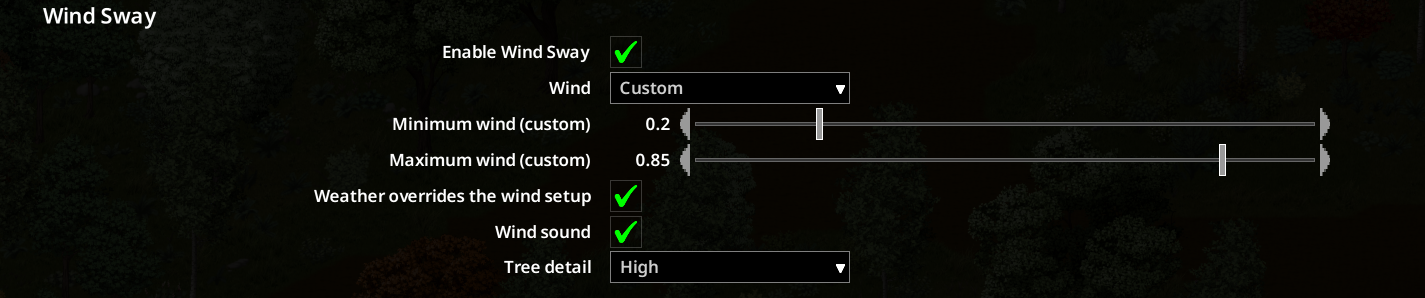
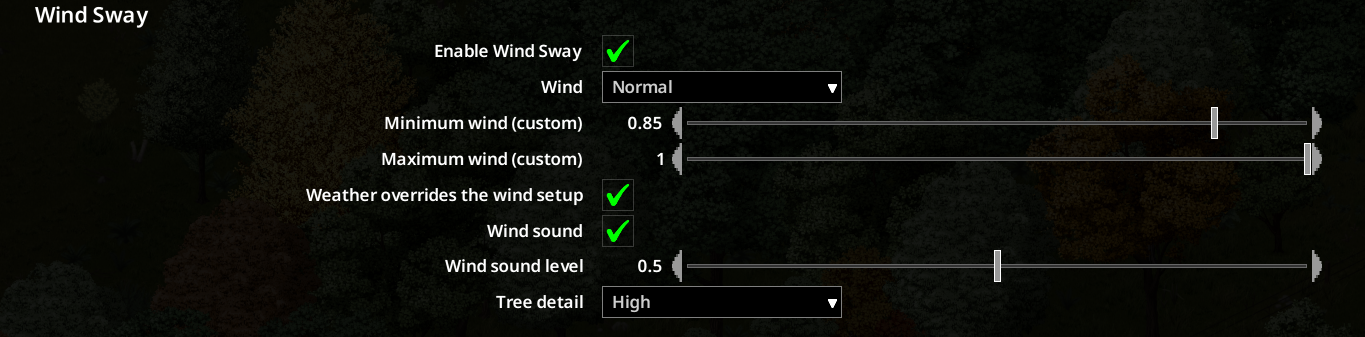
Ride the wind sound on the gusts at the player, add a wind sound level option at half by default, integrate the plants' per-object clock, list multiplayer as tested, release 0.5.0

Changed region(s): [[0.2154, 0.1208, 0.9846, 0.9664], [0.0, 0.0, 0.1231, 0.0906]]

diff --git a/src/pzmod/windsway/TreeSway.java b/src/pzmod/windsway/TreeSway.java
@@ -5,6 +5,7 @@ import java.util.IdentityHashMap;
 import me.zed_0xff.zombie_buddy.Accessor;
 
 import zombie.GameTime;
+import zombie.characters.IsoPlayer;
 import zombie.iso.objects.ObjectRenderEffects;
 
 // Tree wind and sway, stateless: every value comes from (clocks, position).
@@ -162,6 +163,12 @@ public final class TreeSway {
     public static volatile double breezePeriod = 240.0;
     public static volatile double breezePeriodFine = 60.0;
     public static volatile double breezeFineWeight = 0.3;
+    // The wind sound swings around the wind with the gust field at the
+    // player: down * w in a lull, up * w in a gust, capped at 1. The wind
+    // bed is a step ladder without crossfades (0.4/0.7/0.9), a gust is
+    // heard when it crosses a step; the plateau at the cap is the top step.
+    public static volatile double soundGustDown = 0.3;
+    public static volatile double soundGustUp = 0.3;
     // Weather takes the wind over: the band fades out while a weather
     // period, precipitation or fog runs, back in when the sky clears.
     public static volatile boolean weatherTakeover = true;
@@ -271,6 +278,10 @@ public final class TreeSway {
     // phase run.
     public static volatile double coniferLeafClock = 0.0;
     public static volatile double maskClock = 0.0;
+    // The plants' per-object octave rate grows with the wind, so it
+    // integrates too: the shader's rate times treeTime turned every wind
+    // drift into a phase run that grew with the session.
+    public static volatile double plantLocalClock = 0.0;
     public static volatile double w = 0.0;
     public static volatile double wPlant = 0.0;
     public static volatile double plantGateStart = 0.8;
@@ -317,6 +328,7 @@ public final class TreeSway {
         leafClock = 0.0;
         coniferLeafClock = 0.0;
         maskClock = 0.0;
+        plantLocalClock = 0.0;
         breezeClock = Math.random() * 1.0e7;
     }
 
@@ -429,6 +441,7 @@ public final class TreeSway {
                     wp = plantGateStart + (wp - plantGateStart) * plantGateSlope;
                 }
                 wPlant = wp;
+                plantLocalClock = wrap(plantLocalClock + plantLocalRate * (1.0 + plantLocalRateStorm * wp) * dtReal);
                 double tw = (wind - 0.1) / 0.9;
                 if (tw < 0.0) tw = 0.0;
                 double dtSway = dt * (swayTempoCalm + (swayTempoStorm - swayTempoCalm) * tw);
@@ -441,6 +454,7 @@ public final class TreeSway {
                 double ringSpeed = 1.0 - stormSpeedup * wind;
                 ringClock += dtReal / (ringSpeed < 0.05 ? 0.05 : ringSpeed);
                 advect += (dir < 0.0 ? -1.0 : 1.0) * (frontSpeed + frontSpeedWind * wind) * dtReal;
+                WindSwayMod.gustSound = gustAtPlayer();
                 double sp = (frontSpeed + frontSpeedWind * wp) * (1.0 + plantFrontCalm * (1.0 - wp) + plantFrontStorm * wp);
                 speedPlant = sp;
                 advectPlant += (dir < 0.0 ? -1.0 : 1.0) * sp * dtReal;
@@ -477,6 +491,7 @@ public final class TreeSway {
             // floor on the tree pools as well, treeWindFloor is out).
             WindSwayMod.breezeTree = -1.0;
             WindSwayMod.breezePlant = -1.0;
+            WindSwayMod.gustSound = -1.0;
             TreeRenderer.disable("wind model disabled");
             WindSwayGrassDrawer.fail("wind model disabled");
             return false;
@@ -545,7 +560,7 @@ public final class TreeSway {
         u[12] = (float) turbMix1;
         u[13] = (float) turbMix2;
         u[14] = (float) turbMixLocal;
-        u[15] = 0.0f;
+        u[15] = (float) plantLocalClock;
         u[16] = (float) sensSpread;
         u[17] = (float) thresholdMax;
         u[18] = (float) responseCurve;
@@ -770,6 +785,21 @@ public final class TreeSway {
         double a = hash(i, salt);
         double b = hash(i + 1, salt);
         return a + (b - a) * f * f * (3.0 - 2.0 * f);
+    }
+
+    // The tree field's two spatial octaves at the player, the per-tree
+    // term at its mean; game thread, so the value-only noise.
+    private static double gustAtPlayer() {
+        IsoPlayer p = IsoPlayer.getInstance();
+        if (p == null) return -1.0;
+        double s = (p.getX() - p.getY()) / SQRT2;
+        double v = turbMix1 * breezeNoise((s - advect) / turbLen1, 11)
+                + turbMix2 * breezeNoise((s - advect) / turbLen2 + 7.7, 23)
+                + turbMixLocal * 0.5;
+        double u = (v - 0.5) * turbContrast + 0.5;
+        if (u <= 0.0) return 0.0;
+        if (u >= 1.0) return 1.0;
+        return u * u * (3.0 - 2.0 * u);
     }
 
     private static double breezeAt(double level, double n) {

diff --git a/src/pzmod/windsway/WindSwayMod.java b/src/pzmod/windsway/WindSwayMod.java
@@ -2,6 +2,7 @@ package pzmod.windsway;
 
 import java.lang.reflect.Field;
 import java.util.ArrayList;
+import java.util.Locale;
 import java.util.Map;
 
 import me.zed_0xff.zombie_buddy.Accessor;
@@ -99,11 +100,22 @@ public class WindSwayMod {
         return b >= 0.0 ? b : windFloor;
     }
 
+    // The gust field at the player (TreeSway), -1 without a player or model.
+    public static volatile double gustSound = -1.0;
+
     // The wind ambience follows the raised wind (Patch_ParameterWindIntensity).
     public static volatile boolean windSound = true;
 
     public static void setWindSound(boolean v) {
         windSound = v;
+    }
+
+    // Share of the mod's wind band the ambience hears; the game's own wind
+    // and the gusts on top stay as they are.
+    public static volatile double windSoundLevel = 0.5;
+
+    public static void setWindSoundLevel(double v) {
+        windSoundLevel = Math.max(0.0, Math.min(1.0, v));
     }
 
     public static void setWeatherTakeover(boolean v) {
@@ -416,6 +428,27 @@ public class WindSwayMod {
         TreeSway.breezePeriod = Math.max(1.0, period);
         TreeSway.breezePeriodFine = Math.max(1.0, periodFine);
         TreeSway.breezeFineWeight = Math.max(0.0, Math.min(1.0, fineWeight));
+    }
+
+    public static void setWindSoundGust(double down, double up) {
+        TreeSway.soundGustDown = Math.max(0.0, Math.min(1.0, down));
+        TreeSway.soundGustUp = Math.max(0.0, up);
+    }
+
+    public static volatile boolean debugWindSound = false;
+
+    public static void setDebugWindSound(boolean v) {
+        debugWindSound = v;
+    }
+
+    private static long windSoundLogNanos;
+
+    public static void logWindSound(float raw, double floor, double gust, float sent) {
+        long now = System.nanoTime();
+        if (now - windSoundLogNanos < 2_000_000_000L) return;
+        windSoundLogNanos = now;
+        trace(String.format(Locale.ROOT, "wind sound: raw %.3f breeze %.3f gust %.2f -> fmod %.3f",
+                raw, floor, gust, sent));
     }
 
     public static void setPlantLeafOnset(double onset, double full, double clusterRatePow) {

diff --git a/src/pzmod/windsway/Patch_ParameterWindIntensity.java b/src/pzmod/windsway/Patch_ParameterWindIntensity.java
@@ -10,8 +10,9 @@ public class Patch_ParameterWindIntensity {
     // FMOD (one instance, ticked by AmbientStreamManager); aiming, water,
     // weather FX and windchill read ClimateManager directly and never
     // pass through here. The parameter ticks in the main menu too, where
-    // there is no breeze. Quantised like vanilla: FMODParameter.update
-    // sets the parameter only on a change.
+    // there is no breeze. The gust field at the player rides on top, so
+    // a front that sweeps the screen is heard. Quantised like vanilla:
+    // FMODParameter.update sets the parameter only on a change.
     @Patch(className = "zombie.audio.parameters.ParameterWindIntensity",
            methodName = "calculateCurrentValue")
     public static class Patch_calculateCurrentValue {
@@ -20,10 +21,18 @@ public class Patch_ParameterWindIntensity {
         public static void exit(@Patch.Return(readOnly = false) float result) {
             if (!WindSwayMod.enabled || !WindSwayMod.windSound) return;
             if (IsoPlayer.getInstance() == null) return;
-            double floor = WindSwayMod.breezePlantFloor();
-            if (floor > 0.0 && result < floor) {
-                result = (float) ((int) (floor * 1000.0)) / 1000.0f;
+            float raw = result;
+            double floor = WindSwayMod.breezePlantFloor() * WindSwayMod.windSoundLevel;
+            double v = raw;
+            if (floor > 0.0 && v < floor) v = floor;
+            double g = WindSwayMod.gustSound;
+            if (g >= 0.0) {
+                double c = 2.0 * g - 1.0;
+                v *= 1.0 + (c < 0.0 ? TreeSway.soundGustDown : TreeSway.soundGustUp) * c;
+                if (v > 1.0) v = 1.0;
             }
+            result = (float) ((int) (v * 1000.0)) / 1000.0f;
+            if (WindSwayMod.debugWindSound) WindSwayMod.logWindSound(raw, floor, g, result);
         }
     }
 }

diff --git a/src/pzmod/windsway/TreeClass.java b/src/pzmod/windsway/TreeClass.java
@@ -8,7 +8,7 @@ final class TreeClass {
 
     // Holly: dense stiff evergreen cone, tiny leathery leaves.
     static final int CONE = 0;
-    // Hemlock: hanging branch tips, the tiers bob.
+    // Hemlock: hanging branch tips; the crown leans as one, no tier bob.
     static final int PENDULOUS = 1;
     // Pine: long bare trunk, open stiff layers, needle tufts.
     static final int PINE = 2;
@@ -29,7 +29,7 @@ final class TreeClass {
     static final double[] period = {1.0, 1.0, 1.1, 1.0, 1.0, 1.0};
     static final double[] periodExp = {0.35, 0.35, 0.35, 0.35, 0.35, 0.35};
     static final double[] ring = {0.9, 1.0, 1.0, 1.0, 1.0, 0.9};
-    static final double[] lobe = {0.8, 1.3, 0.6, 1.2, 1.0, 0.5};
+    static final double[] lobe = {0.8, 0.0, 0.6, 1.2, 1.0, 0.5};
     static final double[] lobeCell = {1.0, 1.0, 1.6, 0.7, 1.2, 1.3};
     static final double[] lobeY = {0.8, 1.2, 0.8, 1.0, 1.0, 0.8};
     static final double[] leafAmp = {1.0, 1.0, 1.0, 1.0, 1.0, 1.0};

diff --git a/README.md b/README.md
@@ -35,10 +35,11 @@ On first launch ZombieBuddy asks whether to load Wind Sway's JAR, tick Allow.
 ## Compatibility
 
 - Safe to add or remove mid-save, the mod stores nothing in the save.
+- Apple silicon not fully tested.
 
 ## Multiplayer
 
-Not supported for now: render glitches were reported on servers that don't show in single player. If you play on a server anyway and trees or bushes look wrong, please report at [github.com/armakupub/WindSway/issues](https://github.com/armakupub/WindSway/issues) with the console.txt of that session. Since 0.4.3 it carries a status line every few minutes that tells me what the renderer was doing.
+Tested in multiplayer, locally and on a dedicated server, without errors. Other mods may still conflict with it; that shows as render glitches, or the mod falls back to vanilla until you rejoin. If that happens, please post the console.txt of that session at [github.com/armakupub/WindSway/issues](https://github.com/armakupub/WindSway/issues).
 
 ## Settings
 
@@ -53,7 +54,8 @@ Everything sits under Options → Mods → Wind Sway.
 | Minimum wind (custom) | 0–1, 0.2 | Lower edge of the custom band. Both sliders 0 = vanilla wind. |
 | Maximum wind (custom) | 0–1, 0.85 | Upper edge. At or below the minimum: a steady wind at the minimum. |
 | Weather overrides the wind setup | on | During rain, fog and storms the game's wind rules, even below the band. Off: the band stays as a floor. |
-| Wind sound | on | The wind ambience follows the mod's wind. Sound only, gameplay untouched. |
+| Wind sound | on | The wind ambience follows the mod's wind and its gusts. Sound only, gameplay untouched. |
+| Wind sound level | 0–1, 0.5 | How much of the mod's wind the ambience hears. At the default the wind bed stays near vanilla; raise it if you play Windy or Custom and want to hear the wind. Weather sounds stay as they are. |
 | Tree detail | High | Lower levels drop the fine branch and leaf motion, the crown still bends. |
 
 ## FAQ
